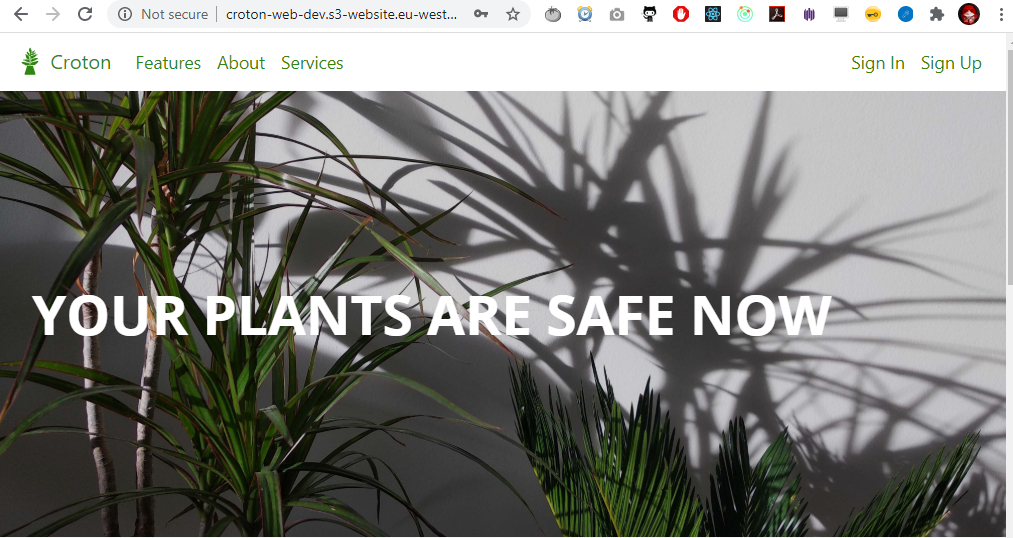
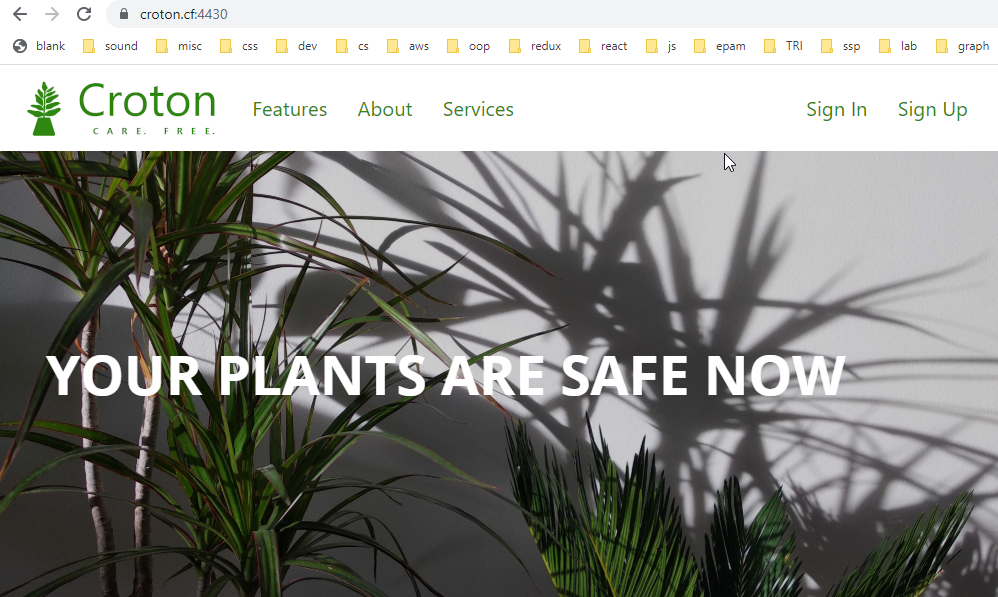
demo2

diff --git a/presentation/index.js b/presentation/index.js
@@ -28,7 +28,10 @@ import createTheme from '../assets/theme';
 
 const imageFileNames = [
   // intro, git, docs
+  'cert.png',
   'croton.png',
+
+
   'change.png',
   'deploy.png',
   'nodemailer.png',
@@ -237,9 +240,90 @@ export default class Presentation extends React.Component {
         controls={false}
         progress="bar"
       >
+
         <FullScreenSlide>
-          <FullScreenImage src={images.croton} />
+          <Heading size={4}>Sprint #2</Heading>
         </FullScreenSlide>
+
+        <FullScreenSlide>
+          <Heading size={4}>TLD & HTTPS</Heading>
+          <Image src={images.cert} />
+        </FullScreenSlide>
+
+        <FullScreenSlide padding={350}>
+          <Heading size={4}>TLD & HTTPS</Heading>
+          <List>
+            <ListItem><Link href="http://croton.cf:8080/">http://croton.cf:8080/</Link> -- web@http</ListItem>
+            <ListItem><Link href="https://croton.cf:4430/">https://croton.cf:4430/</Link> -- web@https</ListItem>
+            <ListItem><Link href="http://croton.cf:8081/">http://croton.cf:8081/</Link> -- stage@http</ListItem>
+            <ListItem><Link href="https://croton.cf:4431/">https://croton.cf:4431/</Link> -- stage@https</ListItem>
+            <ListItem><Link href="http://croton.cf/">http://croton.cf/</Link> -- prod@http</ListItem>
+            <ListItem><Link href="https://croton.cf/">https://croton.cf/</Link> -- prod@https</ListItem>
+          </List>
+        </FullScreenSlide>
+
+        <FullScreenSlide>
+          <Image src={images.croton} />
+        </FullScreenSlide>
+
+        <FullScreenSlide padding={350}>
+          <Heading size={4}>Technicals</Heading>
+          <List>
+            <ListItem style={{ fontSize: '3vh' }}>DB Migrations</ListItem>
+            <ListItem style={{ fontSize: '3vh' }}>Validation: move to custom hook</ListItem>
+            <ListItem style={{ fontSize: '3vh' }}>Badges CI move to AWS</ListItem>
+            <ListItem style={{ fontSize: '3vh' }}>Split DBs for envs</ListItem>
+            <ListItem style={{ fontSize: '3vh' }}>Move axios api calls to separate service, update tests</ListItem>
+            <ListItem style={{ fontSize: '3vh' }}>Separate package.json command to run web with a local backend</ListItem>
+
+          </List>
+        </FullScreenSlide>
+
+        <FullScreenSlide padding={350}>
+          <Heading size={4}>Bugs Fixed:</Heading>
+          <List>
+            <ListItem style={{ fontSize: '3vh' }}>Unable to update profile right after email confirm</ListItem>
+            <ListItem style={{ fontSize: '3vh' }}>Error on email confirm due to re-rendering</ListItem>
+            <ListItem style={{ fontSize: '3vh' }}>Fix bug in RN tests</ListItem>
+          </List>
+        </FullScreenSlide>
+
+        <FullScreenSlide padding={400}>
+          <Heading size={4}>User Flows:</Heading>
+          <List>
+            <ListItem style={{ fontSize: '3vh' }}>Login with Facebook</ListItem>
+            <ListItem style={{ fontSize: '3vh' }}>Login with Google</ListItem>
+            <ListItem style={{ fontSize: '3vh' }}>Show user profile</ListItem>
+            <ListItem style={{ fontSize: '3vh' }}>Change user profile</ListItem>
+            <ListItem style={{ fontSize: '3vh' }}>Reset user email</ListItem>
+          </List>
+        </FullScreenSlide>
+
+        <FullScreenSlide padding={100}>
+          <Heading size={4}>User Flow Demo</Heading>
+          <Link href="https://croton.cf:4430/">
+            <Image src={images.demo} />
+          </Link>
+        </FullScreenSlide>
+
+        <FullScreenSlide padding={100}>
+          <Heading size={4}>Mobile!</Heading>
+        </FullScreenSlide>
+{/* 
+
+
+
+
+
+
+
+
+
+
+
+
+
+
 
         <Slide>
           <Image src={images.change} />
@@ -287,24 +371,8 @@ export default class Presentation extends React.Component {
           </List>
         </Slide>
 
-        <FullScreenSlide padding={100}>
-          <Heading size={4}>User Flow Demo</Heading>
-          <Link href="http://croton-web-dev.s3-website.eu-west-2.amazonaws.com/">
-            <Image src={images.demo} />
-          </Link>
-        </FullScreenSlide>
+ */}
 
-        <FullScreenSlide padding={100}>
-          <Heading size={4}>Issues/Tech Debts:</Heading>
-          <List>
-            <ListItem style={{ fontSize: '3vh' }}>Social login: facebook requires HTTPS (self-signed on back), Google requires TLD (example.com). Move web to https with TLD? Social login from front not back? Share $?</ListItem>
-            <ListItem style={{ fontSize: '3vh' }}>Email: config sending real email using Croton Gmail account starting from stage env</ListItem>
-            <ListItem style={{ fontSize: '3vh' }}>DB/contracts: single DB, mized tables with fields from different flows, DB corruptions, contract, swagger</ListItem>
-            <ListItem style={{ fontSize: '3vh' }}>coverage-badges force-pushing to PRs - store to AWS for dev branch</ListItem>
-            <ListItem style={{ fontSize: '3vh' }}>core dependencies: investigate using dependencies from core after package build, currently using local deps</ListItem>
-            <ListItem style={{ fontSize: '3vh' }}>No time for mobile</ListItem>
-          </List>
-        </FullScreenSlide>
 
         {/* <Slide>
           <Heading size={4}>Heading</Heading>
